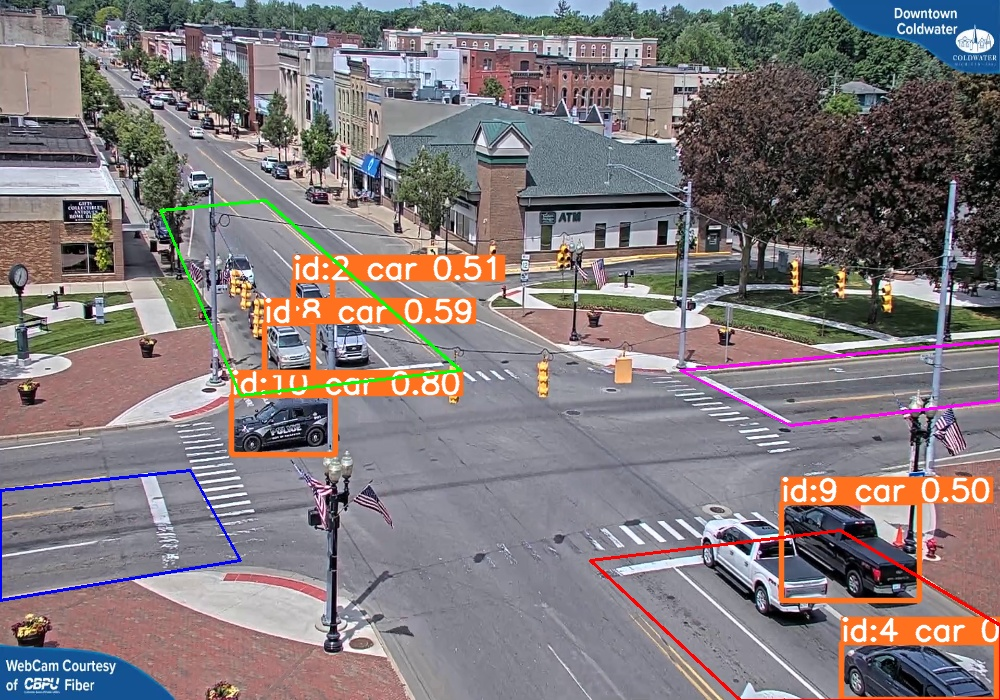
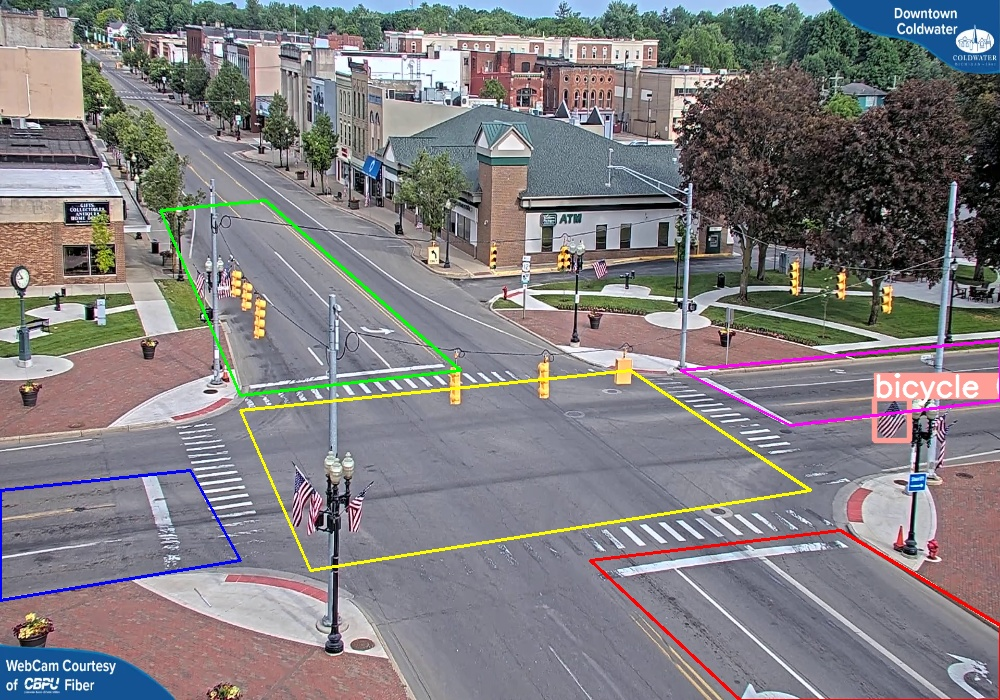
Added traffic volume score calculation + threshold toggling

diff --git a/webcam/views.py b/webcam/views.py
@@ -15,12 +15,13 @@ import numpy as np
 from vidgear.gears import VideoGear
 
 from ultralytics import YOLO
+import matplotlib.pyplot as plt
 
-# Create your views here.
-
-trafficLightControlResponseList = [0, 1, 0, 1]
+trafficLightControlResponseList = [1, 0, 1, 0]
 trafficLightControlStatus = 1
 
+
+# Create your views here.
 
 # HOME PAGE -------------------------
 def index(request):
@@ -36,6 +37,7 @@ def get_traffic_light_control_response(request):
     return Response(data=trafficLightControlResponseList, status=status.HTTP_200_OK)
 
 
+# POST REQUEST -------------------------
 @api_view(['POST'])
 def post_traffic_light_control_status(request):
     global trafficLightControlStatus
@@ -57,7 +59,27 @@ with open(
 model = YOLO("webcam/models/yolo/yolov8n.pt")
 colors = np.random.uniform(0, 255, size=255)
 
-CUSTOM_CLASS_NAMES = {'0': 'person', '1': 'bicycle', '2': 'car', '3': 'motorcycle', '5': 'bus', '7': 'truck'}
+CUSTOM_CLASS_NAMES = {
+    # '0': 'person',
+    '1': 'bicycle',
+    '2': 'car',
+    '3': 'motorcycle',
+    '5': 'bus',
+    '7': 'truck'
+}
+
+WAITING_SCORE_PENALTY = {
+    # 'person': 0,
+    'bicycle': 3,
+    'car': 1,
+    'motorcycle': 1,
+    'bus': 5,
+    'truck': 5
+}
+
+FRAME_RATE = 15
+
+TRAFFIC_TOGGLE_THRESHOLD = 10
 
 
 def check_wanted_classes(class_key):
@@ -83,7 +105,7 @@ def stream_1():
                "format=BGR ! appsink",
         stream_mode=True,
         resolution=(640, 448),
-        framerate=30,
+        framerate=15,
         logging=True,
         time_delay=1
     ).start()
@@ -132,15 +154,22 @@ def stream_1():
     roi2 = [(240, 395), (160, 210), (265, 200), (460, 370)]
     roi3 = [(680, 370), (1000, 340), (1000, 400), (790, 425)]
     roi4 = [(590, 560), (840, 530), (1000, 625), (1000, 700), (740, 700)]
+    roi_central = [(240, 410), (630, 370), (810, 490), (310, 570)]
 
     global trafficLightControlStatus
-
+    vehicles_in_intersection = []
+    frame_number = 0
+    real_frame_number = 0
+    analytic_list_waiting_score = []
+    analytic_list_throughput_score = []
     while True:
+        waiting_score = 0
         # status, frame = vid.read()
         frame = vid.read()
         # if not status:
         #     break
         frame = cv2.resize(frame, (1000, 700))
+        real_frame_number += 1
 
         # rois for https://www.youtube.com/watch?v=sPe_XHhO5aw
         # roi2 = crop_image(frame, [(70, 300), (125, 185), (430, 285), (230, 375)])
@@ -148,26 +177,80 @@ def stream_1():
         results = model.track(frame, persist=True, classes=custom_class_ids, conf=0.1, iou=0.1,
                               tracker="webcam/models/yolo/bytetrack.yaml")
 
-        vehicles_in_roi1, vehicles_in_roi2, vehicles_in_roi3, vehicles_in_roi4, track_ids_list = roi_tracking(results,
-                                                                                                              [roi1,
-                                                                                                               roi2,
-                                                                                                               roi3,
-                                                                                                               roi4])
-        print(trafficLightControlStatus)
-        print(track_ids_list)
+        vehicles_in_roi1, vehicles_in_roi2, vehicles_in_roi3, vehicles_in_roi4, vehicles_in_intersection, track_ids_list = roi_tracking(
+            results,
+            [roi1,
+             roi2,
+             roi3,
+             roi4,
+             roi_central], vehicles_in_intersection)
 
-        control_traffic_lights([vehicles_in_roi1, vehicles_in_roi2, vehicles_in_roi3, vehicles_in_roi4])
+        waiting_score, throughput_score, traffic_volume_score, frame_number = control_traffic_lights(
+            [vehicles_in_roi1, vehicles_in_roi2, vehicles_in_roi3, vehicles_in_roi4, vehicles_in_intersection],
+            waiting_score, frame_number)
+
+        # # clipped_traffic_volume_score = 0
+        # if traffic_volume_score%500 != 0:
+        #     clipped_traffic_volume_score = traffic_volume_score%500
+        # elif traffic_volume_score%500 == 0 and traffic_volume_score != 0:
+        #     clipped_traffic_volume_score = 500
+        # else:
+        #     clipped_traffic_volume_score = 0
+
+        # analytic_list_waiting_score.append((traffic_volume_score, waiting_score))
+        # analytic_list_throughput_score.append((traffic_volume_score, throughput_score))
+        #
+        # if len(analytic_list_waiting_score) == 500:
+        #     analytic_list_waiting_score.sort(key=lambda x: x[1])
+        #     analytic_list_throughput_score.sort(key=lambda x: x[1])
+        #     plt.xlabel("traffic volume score")
+        #     plt.ylabel("waiting_score/throughput_score")
+        #     plt.plot(*zip(*analytic_list_waiting_score), label="waiting_score")
+        #     plt.plot(*zip(*analytic_list_throughput_score), label="throughput_score")
+        #     plt.savefig('analytics500framesv2.0.png', bbox_inches='tight')
+        #     plt.show()
+        #
+        # if len(analytic_list_waiting_score) == 1500:
+        #     analytic_list_waiting_score.sort(key=lambda x: x[1])
+        #     analytic_list_throughput_score.sort(key=lambda x: x[1])
+        #     plt.xlabel("traffic volume score")
+        #     plt.ylabel("waiting_score/throughput_score")
+        #     plt.plot(*zip(*analytic_list_waiting_score), label = "waiting_score")
+        #     plt.plot(*zip(*analytic_list_throughput_score), label = "throughput_score")
+        #     plt.savefig('analytics1500framesv2.0.png', bbox_inches='tight')
+        #     plt.show()
+        #
+        #
+        #
+        # if len(analytic_list_waiting_score) == 3000:
+        #     analytic_list_waiting_score.sort(key=lambda x: x[1])
+        #     analytic_list_throughput_score.sort(key=lambda x: x[1])
+        #     plt.xlabel("traffic volume score")
+        #     plt.ylabel("waiting_score/throughput_score")
+        #     plt.plot(*zip(*analytic_list_waiting_score), label="waiting_score")
+        #     plt.plot(*zip(*analytic_list_throughput_score), label="throughput_score")
+        #     plt.savefig('analytics3000framesv2.0.png', bbox_inches='tight')
+        #     plt.show()
+        #
+        #     break
 
         annotated_frame = results[0].plot()
-        print(len(vehicles_in_roi1), vehicles_in_roi1)
-        print(len(vehicles_in_roi2), vehicles_in_roi2)
-        print(len(vehicles_in_roi3), vehicles_in_roi3)
-        print(len(vehicles_in_roi4), vehicles_in_roi4)
+        # print(len(vehicles_in_roi1), vehicles_in_roi1)
+        # print(len(vehicles_in_roi2), vehicles_in_roi2)
+        # print(len(vehicles_in_roi3), vehicles_in_roi3)
+        # print(len(vehicles_in_roi4), vehicles_in_roi4)
+
         cv2.polylines(annotated_frame, [np.array(roi1)], True, (255, 0, 0, 125), 2)
         cv2.polylines(annotated_frame, [np.array(roi2)], True, (0, 255, 0, 125), 2)
         cv2.polylines(annotated_frame, [np.array(roi3)], True, (255, 0, 255, 125), 2)
         cv2.polylines(annotated_frame, [np.array(roi4)], True, (0, 0, 255, 125), 2)
+        cv2.polylines(annotated_frame, [np.array(roi_central)], True, (0, 255, 255, 125), 2)
 
+        for roi in [vehicles_in_roi1, vehicles_in_roi2, vehicles_in_roi3, vehicles_in_roi4]:
+            for track in roi:
+                cv2.circle(annotated_frame, (int(track[2][0]), int(track[2][1])), radius=5, color=(0, 0, 255),
+                           thickness=-1)
+        print('Frame:', real_frame_number)
         cv2.imwrite('currentframe.jpg', annotated_frame)
         yield (b'--frame\r\n'
                b'Content-Type: image/jpeg\r\n\r\n' + open('currentframe.jpg', 'rb').read() + b'\r\n')
@@ -177,11 +260,19 @@ def video_feed_1(request):
     return StreamingHttpResponse(stream_1(), content_type='multipart/x-mixed-replace; boundary=frame')
 
 
-def roi_tracking(results, roi_list):
+def vehicle_counted(vehicle_id, vehicle_list):
+    for item in vehicle_list:
+        if item[1] == vehicle_id:
+            return True
+    return False
+
+
+def roi_tracking(results, roi_list, vehicles_in_intersection):
     roi1 = roi_list[0]
     roi2 = roi_list[1]
     roi3 = roi_list[2]
     roi4 = roi_list[3]
+    roi_central = roi_list[4]
 
     center_track_id_map = {}
 
@@ -198,11 +289,10 @@ def roi_tracking(results, roi_list):
         boxes = results[0].boxes.cpu().xywh
         class_ids = results[0].boxes.cls.cpu().tolist()
         track_ids = results[0].boxes.cpu().id
-
     if track_ids is not None:
         track_ids_list = track_ids.tolist()
         for track_id, bbox in zip(track_ids_list, boxes.tolist()):
-            center_point = (bbox[0] + bbox[2] / 2, bbox[1] + bbox[3] / 2)
+            center_point = (bbox[0], bbox[1])
             center_track_id_map.update({track_id: center_point})
         for k, class_id in zip(center_track_id_map, class_ids):
             if cv2.pointPolygonTest(np.array(roi1), center_track_id_map[k], False) > 0:
@@ -213,40 +303,55 @@ def roi_tracking(results, roi_list):
                 vehicles_in_roi3.append([CLASS_NAMES[str(int(class_id))], int(k), center_track_id_map[k]])
             elif cv2.pointPolygonTest(np.array(roi4), center_track_id_map[k], False) > 0:
                 vehicles_in_roi4.append([CLASS_NAMES[str(int(class_id))], int(k), center_track_id_map[k]])
+            elif cv2.pointPolygonTest(np.array(roi_central), center_track_id_map[k], False) > 0:
+                if not vehicle_counted(int(k), vehicles_in_intersection):
+                    vehicles_in_intersection.append([CLASS_NAMES[str(int(class_id))], int(k), center_track_id_map[k]])
     else:
         track_ids_list = []
-    return vehicles_in_roi1, vehicles_in_roi2, vehicles_in_roi3, vehicles_in_roi4, track_ids_list
+    return vehicles_in_roi1, vehicles_in_roi2, vehicles_in_roi3, vehicles_in_roi4, vehicles_in_intersection, track_ids_list
 
 
-WAITING_SCORE_PENALTY = {
-    "car": 1,
-    "bus": 5,
-    "motorcycle": 1,
-    "truck": 5,
-}
-
-
-def get_waiting_score(roi_list):
-    waiting_score = 0
-
-    for i in range(1, len(trafficLightControlResponseList)):
+def get_waiting_score(roi_list, waiting_score):
+    for i in range(len(trafficLightControlResponseList)):
         if trafficLightControlResponseList[i] == 1:
             for vehicle in roi_list[i]:
-                waiting_score = waiting_score + WAITING_SCORE_PENALTY[vehicle[0]]
+                waiting_score += WAITING_SCORE_PENALTY[vehicle[0]]
     return waiting_score
 
 
-def control_traffic_lights(roi_list):
+def get_throughput_score(vehicles_in_intersection, frame_number):
+    return (float(len(vehicles_in_intersection)) * FRAME_RATE) / float(frame_number)
+
+
+def control_traffic_lights(roi_list, waiting_score, frame_number):
     global trafficLightControlResponseList
-    result = [0, 0, 0, 0]
-    # TODO: Implement logic
 
-    waiting_score = get_waiting_score(roi_list)
-
-    # https://github.com/batman-nair/Traffic-Analyser/
-
+    throughput_score = 0
+    traffic_volume_score = 0
     # wait for status update to be valid
     if not trafficLightControlStatus == 0:
-        print("Endpoint worked!")
+        frame_number += 1
+        throughput_score = get_throughput_score(roi_list[4], frame_number)
+        waiting_score = get_waiting_score(roi_list, waiting_score)
+        print('throughput_score:', throughput_score, '; waiting_score:', waiting_score, ';')
+        if waiting_score != 0:
+            traffic_volume_score = throughput_score / waiting_score
+            print('traffic_volume_score: ', traffic_volume_score)
+            if traffic_volume_score < TRAFFIC_TOGGLE_THRESHOLD:
+                toggle_traffic_lights()
+                frame_number = 0
+        else:
+            traffic_volume_score = 100
+            print('traffic_volume_score: ', traffic_volume_score)
 
-    trafficLightControlResponseList = result
+    return waiting_score, throughput_score, traffic_volume_score, frame_number
+
+
+def toggle_traffic_lights():
+    global trafficLightControlResponseList
+    global trafficLightControlStatus
+    trafficLightControlResponseList[0] = not trafficLightControlResponseList[0]
+    trafficLightControlResponseList[1] = not trafficLightControlResponseList[1]
+    trafficLightControlResponseList[2] = not trafficLightControlResponseList[2]
+    trafficLightControlResponseList[3] = not trafficLightControlResponseList[3]
+    # trafficLightControlStatus = 0
